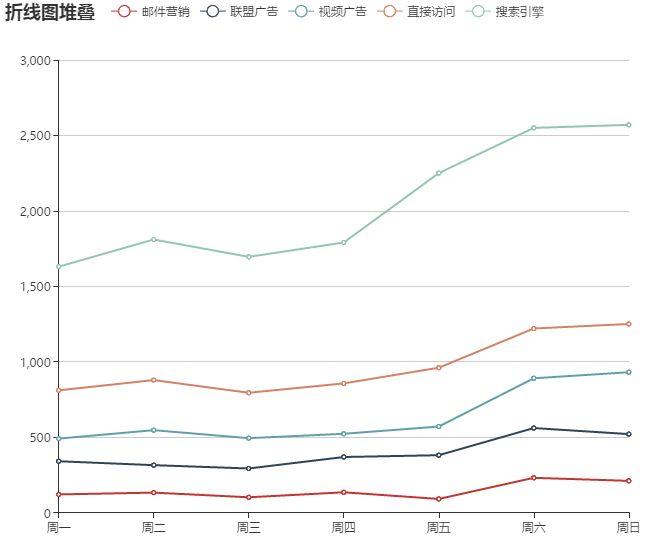
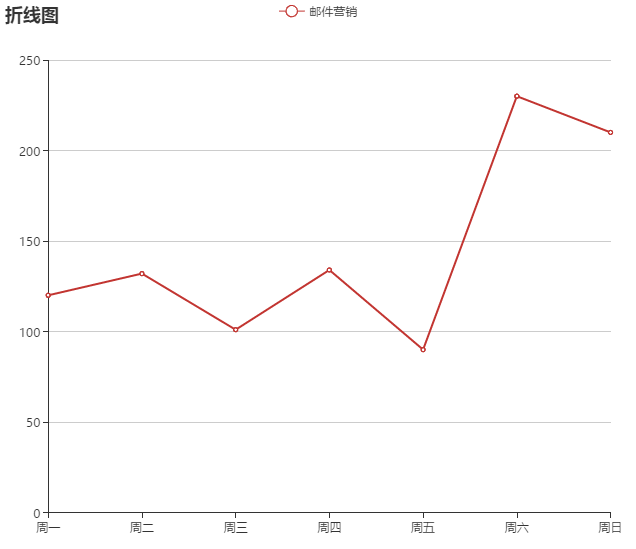
细节调整

diff --git a/designer/src/main/webapp/resources/js/lib/charts/options.js b/designer/src/main/webapp/resources/js/lib/charts/options.js
@@ -252,7 +252,7 @@ define(function(){
                                     trigger: 'axis'
                                 },
                                 legend: {
-                                    data:['邮件营销','联盟广告','视频广告','直接访问','搜索引擎']
+                                    data:['邮件营销']
                                 },
                                 grid: {
                                     left: '3%',
@@ -290,70 +290,6 @@ define(function(){
                                         type:'line',
                                         stack: '总量',
                                         data:[120, 132, 101, 134, 90, 230, 210]
-                                    },
-                                    {
-                                        itemStyle: {
-                                            normal: {
-                                                opacity: 1
-                                            }
-                                        },
-                                        label:{
-                                            normal:{
-                                                show:false
-                                            }
-                                        },
-                                        name:'联盟广告',
-                                        type:'line',
-                                        stack: '总量',
-                                        data:[220, 182, 191, 234, 290, 330, 310]
-                                    },
-                                    {
-                                        itemStyle: {
-                                            normal: {
-                                                opacity: 1
-                                            }
-                                        },
-                                        label:{
-                                            normal:{
-                                                show:false
-                                            }
-                                        },
-                                        name:'视频广告',
-                                        type:'line',
-                                        stack: '总量',
-                                        data:[150, 232, 201, 154, 190, 330, 410]
-                                    },
-                                    {
-                                        itemStyle: {
-                                            normal: {
-                                                opacity: 1
-                                            }
-                                        },
-                                        label:{
-                                            normal:{
-                                                show:false
-                                            }
-                                        },
-                                        name:'直接访问',
-                                        type:'line',
-                                        stack: '总量',
-                                        data:[320, 332, 301, 334, 390, 330, 320]
-                                    },
-                                    {
-                                        itemStyle: {
-                                            normal: {
-                                                opacity: 1
-                                            }
-                                        },
-                                        label:{
-                                            normal:{
-                                                show:false
-                                            }
-                                        },
-                                        name:'搜索引擎',
-                                        type:'line',
-                                        stack: '总量',
-                                        data:[820, 932, 901, 934, 1290, 1330, 1320]
                                     }
                                 ]
                             },

diff --git a/designer/src/main/webapp/resources/js/app/designPanel.js b/designer/src/main/webapp/resources/js/app/designPanel.js
@@ -100,14 +100,20 @@ require(['jquery', 'infovis', 'knockout', 'knockback', 'options', 'formatData', 
             grid.add_widget($('<div style="display: none" id="fill">'+
                 '<div class="grid-stack-item-content">'+
                 '</div>'+
-                '</div>'),0, 0, 0, 9);
+                '</div>'),0, 99, 0, 0);
 
             //为了防止再次进入以后设计面板时先前的图表不能自定义大小，这里获取先前图表的容器属性，重新添加容器并渲染图表
             var containers = $(".grid-stack").children();
-            $(containers).remove();
+            containers.remove();
+            //每个已存在容器的y坐标需要单独获取
+            var positionY = [];
+            for(var i=0;i<containers.length-2;i++) {
+                positionY.push($(containers[i]).attr("data-gs-y"));
+                console.log($(containers[i]).attr("data-gs-y"));
+            }
             for(var i=0;i<containers.length-2;i++) {
                 var x = $(containers[i]).attr("data-gs-x");
-                var y = $(containers[i]).attr("data-gs-y");
+                var y = positionY[i];
                 var width = $(containers[i]).attr("data-gs-width");
                 var height = $(containers[i]).attr("data-gs-height");
                 var od = $(containers[i]).children().attr("order");
@@ -208,7 +214,12 @@ require(['jquery', 'infovis', 'knockout', 'knockback', 'options', 'formatData', 
                     currentIndex = $(this).parent().parent().parent().attr("order");
                     var type = instance.getOption().series[0].type;
 
+                    $("#loading").css("display","block");
+                    $("#optionContainer").empty();
+                    $("#optionPanel").empty();
+
                     $("#optionModal").on("shown.bs.modal",function(e) {
+                        $("#loading").css("display","none");
                         if (type == "bar" || type == "line") {
                             $("#optionPanel").html(formatData.tableAndConfigOfBarAndLine());
                             ko.applyBindings(appViewModel.bindTableAndConfigOfBarAndLine(instance.getOption(), engine), $("#optionPanel").children()[1]);  //开启双向绑定监听
@@ -336,7 +347,12 @@ require(['jquery', 'infovis', 'knockout', 'knockback', 'options', 'formatData', 
                     currentIndex = $(this).parent().parent().parent().attr("order");
                     var type = instance.getOption().series[0].type;
 
+                    $("#loading").css("display","block");
+                    $("#optionContainer").empty();
+                    $("#optionPanel").empty();
+
                     $("#optionModal").on("shown.bs.modal",function(e) {
+                        $("#loading").css("display","none");
                         if (type == "bar" || type == "line") {
                             $("#optionPanel").html(formatData.tableAndConfigOfBarAndLine());
                             ko.applyBindings(appViewModel.bindTableAndConfigOfBarAndLine(instance.getOption(), engine), $("#optionPanel").children()[1]);  //开启双向绑定监听
